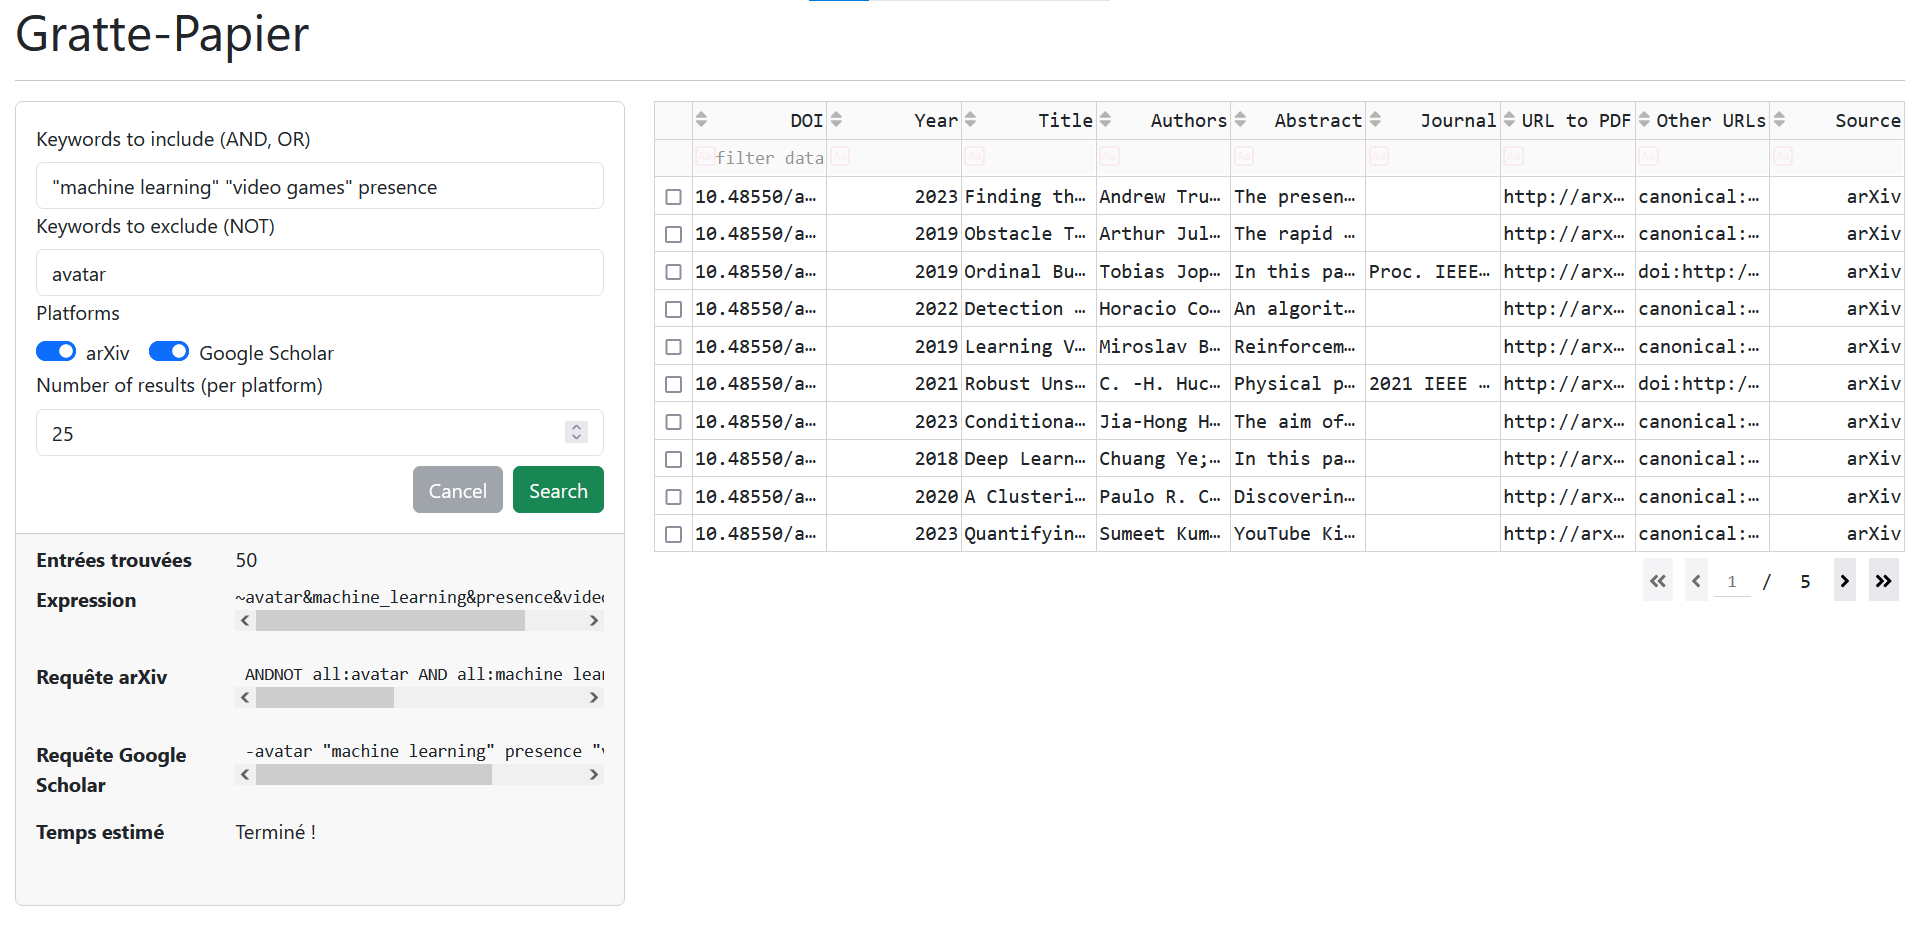
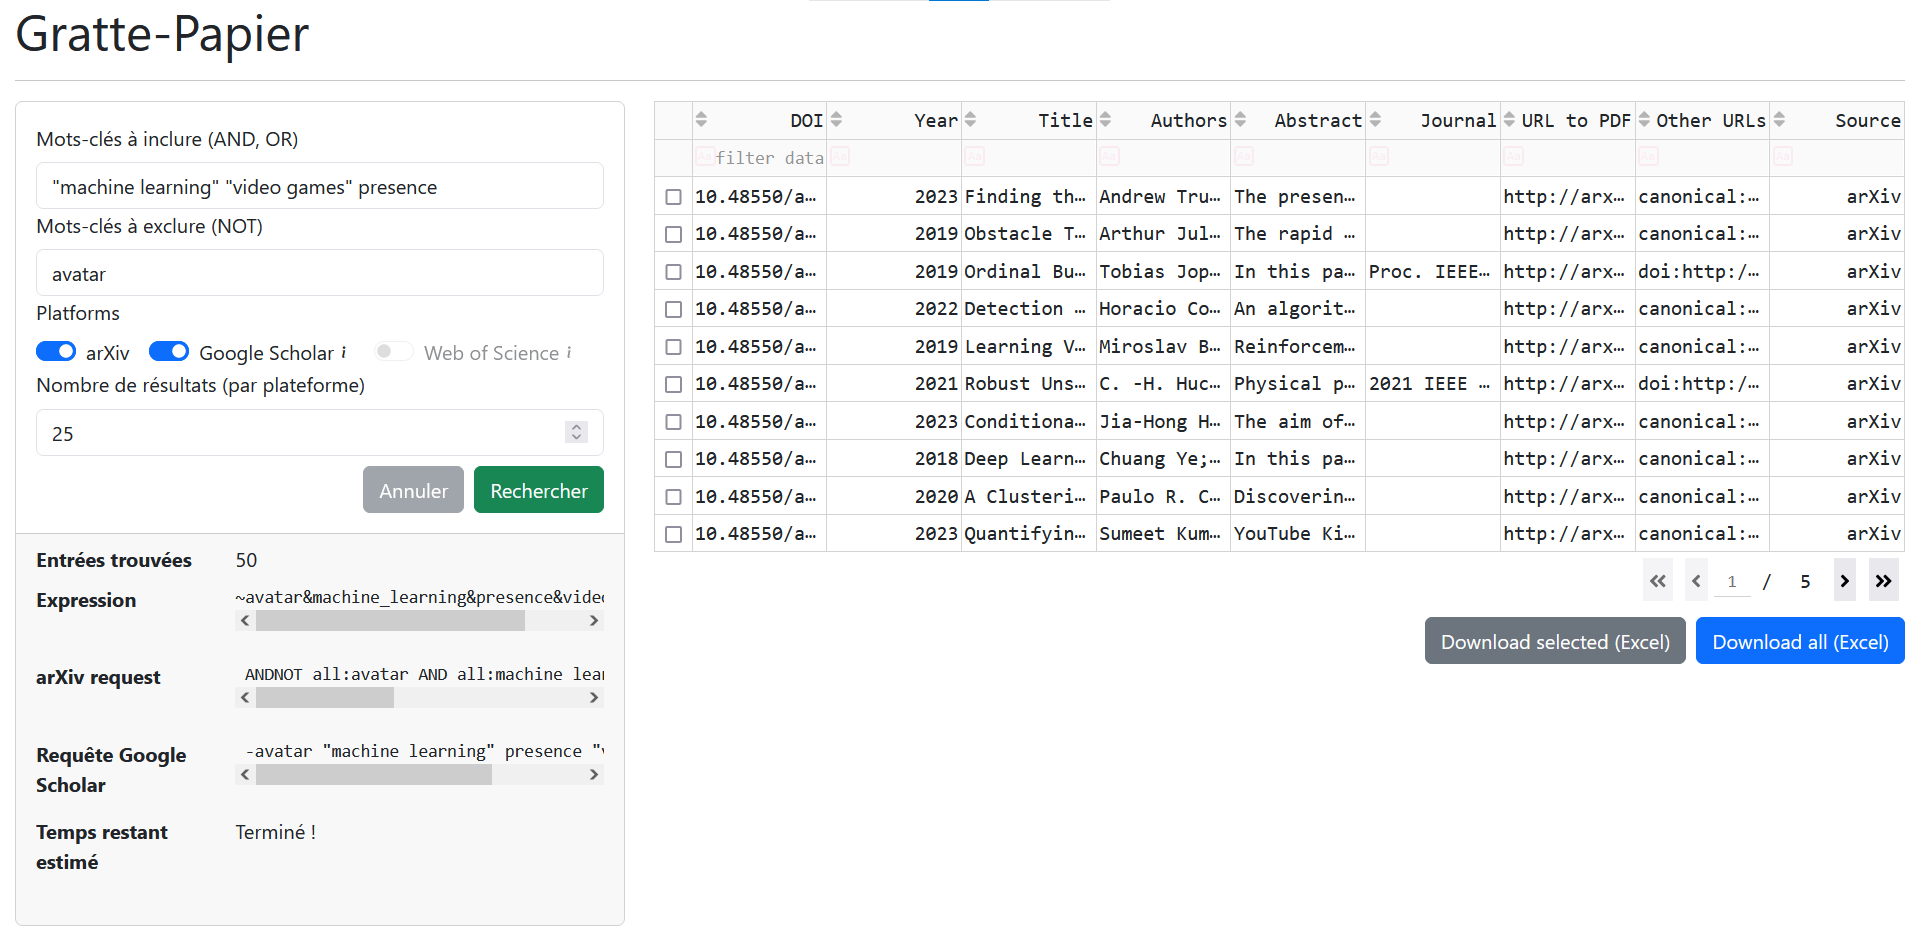
Add info for WoS in README + new screenshots

diff --git a/README.md b/README.md
@@ -2,8 +2,6 @@
 
 Paper scrapper to gather metadata.
 
-Interface graphique pour la récupération de métadonnées de papiers scientifiques. Permet la préparation de scoping review, de revue de littérature systématique, et de méta analyse.
-
 <!-- TOC start (generated with https://github.com/derlin/bitdowntoc) -->
 
 - [Introduction](#introduction)
@@ -17,7 +15,9 @@ Interface graphique pour la récupération de métadonnées de papiers scientifi
 
 ## Introduction
 
-This project aims to lorem ipsum and I'm a lazy cat. Gratte-Papier basically means Paper Scrapper in French.
+Gratte-Papier basically means Paper Scrapper in French.
+
+Graphical interface for retrieving metadata from scientific papers. Enables the preparation of scoping reviews, systematic literature reviews and meta-analyses.
 
 ## Screenshots
 
@@ -41,7 +41,11 @@ This project requires Python 3.9+.
 
 > Note: One of the dependencies, namely `scholarly`, might use Selenium for antispam purposes. This should not be the case here, as we are querying slowly; however, if it happens to be the case, you need to have a CLI firefox available.
 > 
-> Debian: https://www.linuxcapable.com/how-to-install-firefox-on-debian-linux/
+> Debian: https://www.linuxcapable.com/how-to-install-firefox-on-debian-linux/.
+
+> Note: If you want to use Web of Science, you need to create a `config.py` file with the corresponding API key. A template is available: [`config.py.dist`](./config.py.dist).
+> 
+> More information: https://developer.clarivate.com/apis/wos.
 
 ## Usage
 
